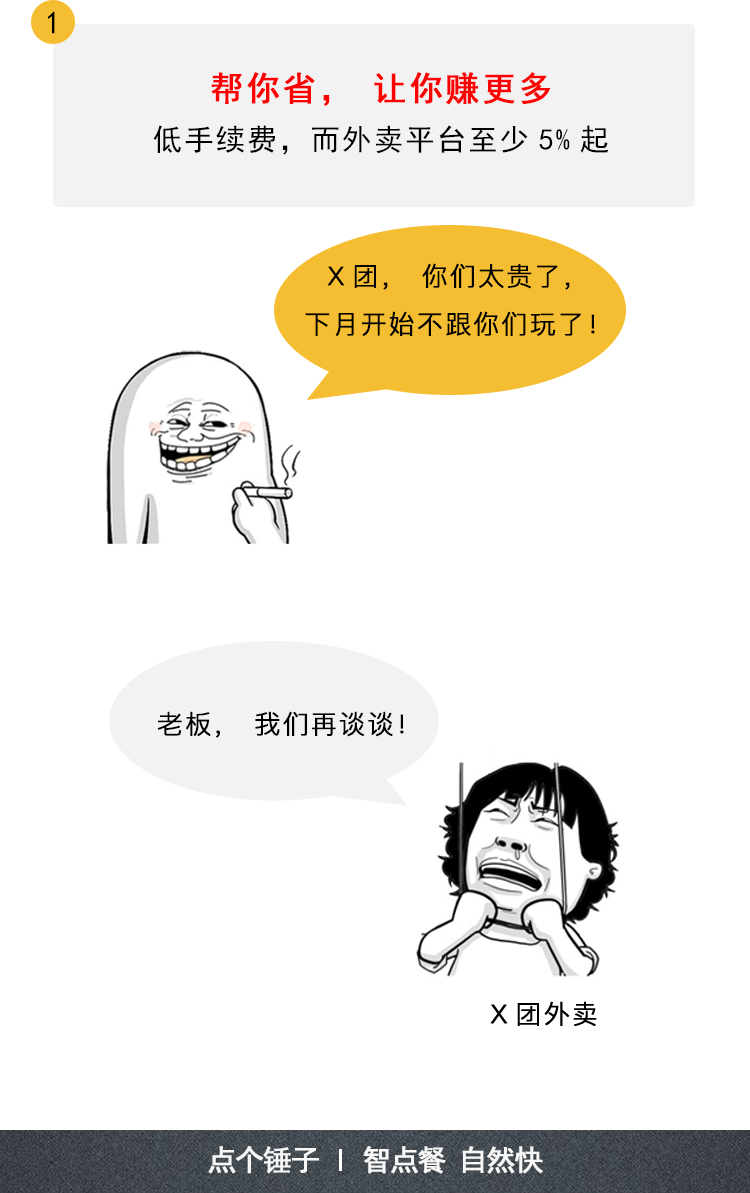
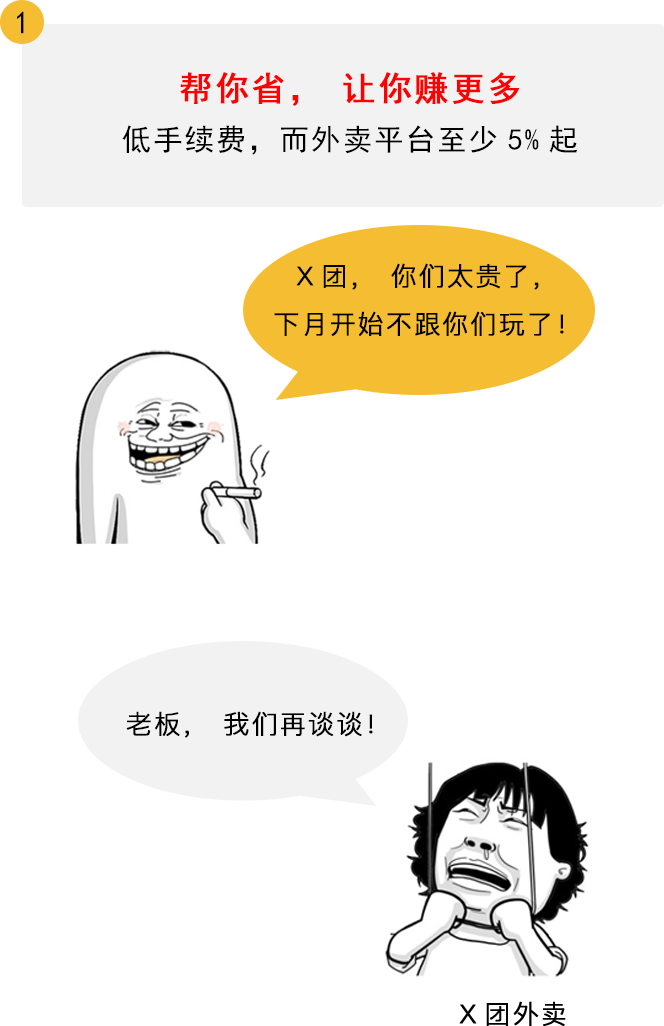
Signed-off-by: WIN-10\Administrator <350121276@qq.com>

diff --git a/index.html b/index.html
@@ -11,31 +11,36 @@
             max-width: 100%;
             height: 100%;
         }
-        .item-1 img{width: 100%;height: 100%;}
-        .item-3 img{width: 100%;height: 99%;padding-top: 10px;}
-        .item-4 img{width: 100%;height: 99%;padding-top: 10px;}
-        .item-5 img{width: 100%;height: 99%;padding-top: 10px;}
-        .item-6 img{width: 100%;height: 99%;padding-top: 10px;}
-        .item-7 img{width: 100%;height: 99%;padding-top: 10px;}
-        .item-8 img{width: 100%;height: 99%;padding-top: 10px;}
-        .item-9 img{width: 100%;height: 99%;padding-top: 10px;}
-        .item-10 img{width: 100%;height: 99%;padding-top: 10px;}
-        .item-11 img{width: 100%;height: 99%;padding-top: 10px;}
-        .item-12 img{width: 100%;height: 99%;padding-top: 10px;}
-        .item-13 img{width: 100%;height: 99%;padding-top: 10px;}
-        .item-14 img{width: 100%;height: 99%;padding-top: 10px;}
+        .item-1 img{width: 100%;height: 95%;}
+        .item-2 img{width: 100%;height: 95%;}
+        .item-3 img{width: 96%;height: 90%;padding-top: 15px;padding-left: 5px;}
+        .item-4 img{width: 96%;height: 90%;padding-top: 15px;padding-left: 5px;}
+        .item-5 img{width: 96%;height: 90%;padding-top: 15px;padding-left: 5px;}
+        .item-6 img{width: 96%;height: 90%;padding-top: 15px;padding-left: 5px;}
+        .item-7 img{width: 96%;height: 90%;padding-top: 15px;padding-left: 5px;}
+        .item-8 img{width: 96%;height: 90%;padding-top: 15px;padding-left: 5px;}
+        .item-9 img{width: 96%;height: 90%;padding-top: 15px;padding-left: 5px;}
+        .item-10 img{width: 96%;height: 90%;padding-top: 15px;padding-left: 5px;}
+        .item-11 img{width: 96%;height: 90%;padding-top: 15px;padding-left: 10px;}
+        .item-12 img{width: 96%;height: 90%;padding-top: 15px;padding-left: 10px;}
+        .item-13 img{width: 96%;height: 90%;padding-top: 15px;padding-left: 10px;}
+        .item-14 img{width: 96%;height: 90%;padding-top: 15px;padding-left: 10px;}
         .item-15 img{width: 100%;height: 100%;overflow-y: scroll;}
         .top_img img{
             margin-left: 10%!important;
             width: 85%;
             padding-top: 10px;
         }
+        .foot_img img{
+            margin-left: 10%!important;
+            width: 85%;
+        }
         form{
             border: 1px solid #9f9f9f;
             padding: 10px 0;
             border-radius: 10px;
             width: 90%;
-            margin: 20px auto;
+            margin: 10px auto;
             background-color: #f2f2f2;
         }
         label{
@@ -59,7 +64,7 @@
             border: 0;
             width: 200px;
             background-color: #f2f2f2;
-           /*line-height: 26px;*/
+            /*line-height: 26px;*/
             /*padding-top: 1px;*/
         }
         .button{
@@ -96,8 +101,8 @@
         };
     }
     getInfo();
-//    console.log(document.documentElement.clientHeight ,window.innerHeight, document.body.clientHeight)
-//    document.body.style.height=window.innerHeight-0+'px';
+    //    console.log(document.documentElement.clientHeight ,window.innerHeight, document.body.clientHeight)
+    //    document.body.style.height=window.innerHeight-0+'px';
 
     window.onload=function() {
         var oBtn = document.getElementById('btn');
@@ -169,7 +174,7 @@
     </div>
 
     <div class="item item-3">
-        <img src="images/3.png" alt="图3">
+        <img src="images/3.png" alt="#">
     </div>
 
     <div class="item item-4">
@@ -230,12 +235,15 @@
             <p></p>
             <div class="button" id="btn" onclick="loadXMLDoc()">提交</div>
         </form>
-
         <div class="foot_img">
             <img src="images/foot.png">
         </div>
     </div>
-</div>
+    </div>
+    <div class="footer" style="position: absolute;bottom: 0;width: 100%;height: 35px;">
+        <img src="images/footer.png" alt="#" style="width: 100%;">
+    </div>
+
 <script type="text/javascript" src="js/iSlider.js"></script>
 
 <script type="text/javascript">
@@ -252,7 +260,6 @@
         }
     });
     console.info(myslider)
-
 
 </script>
 </body>
